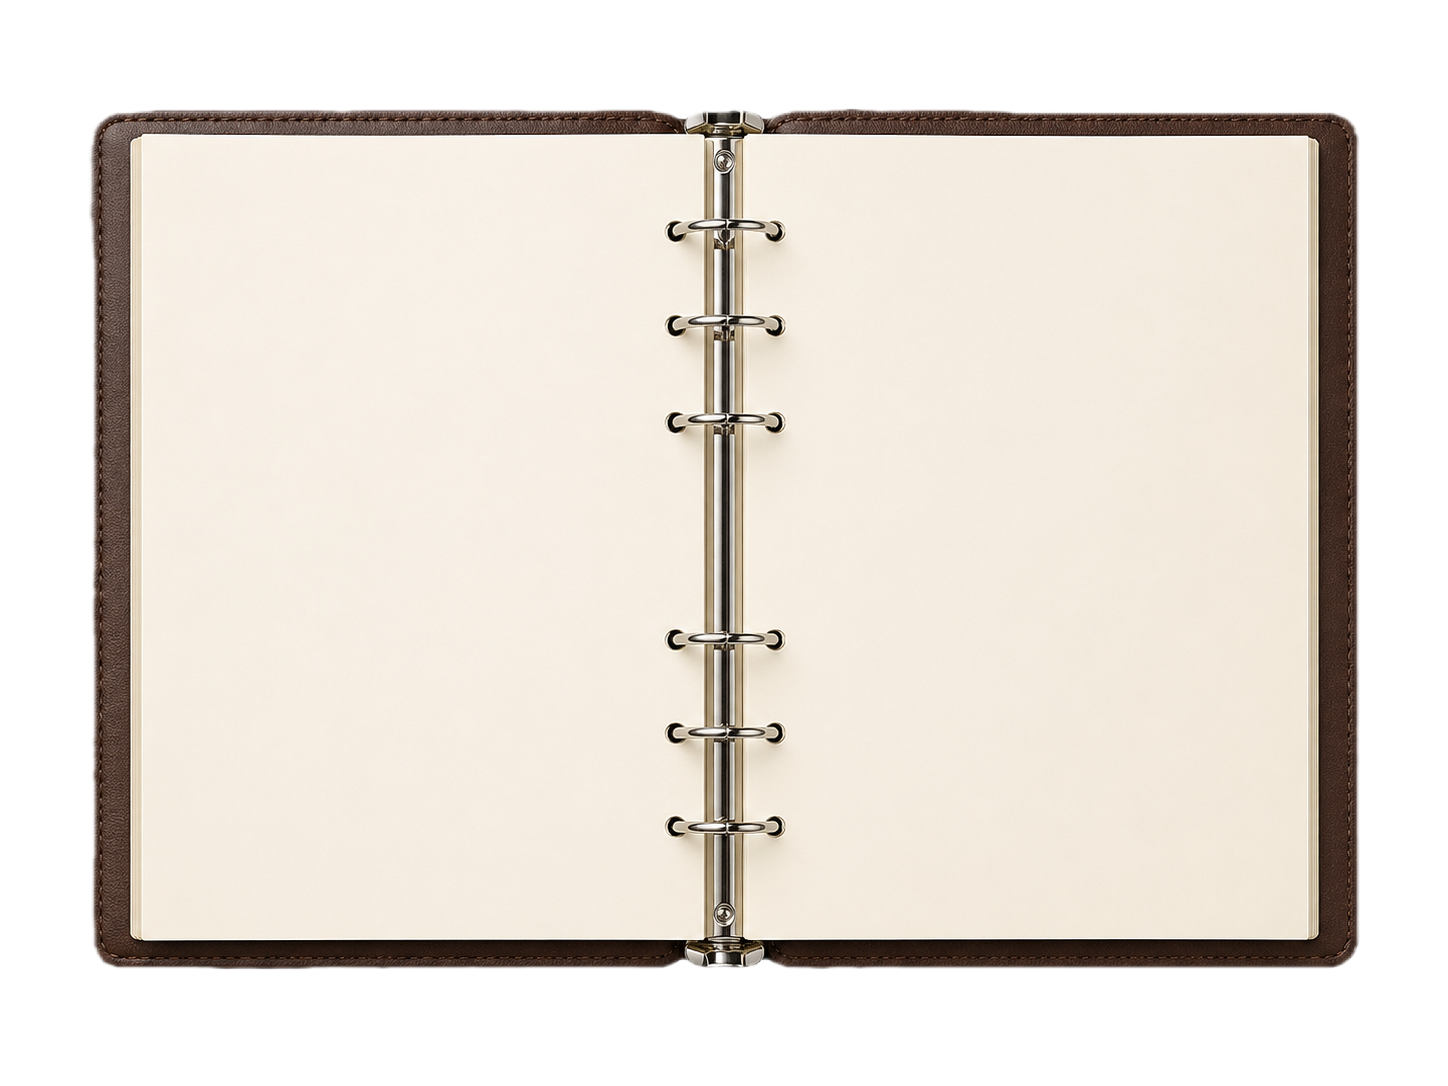
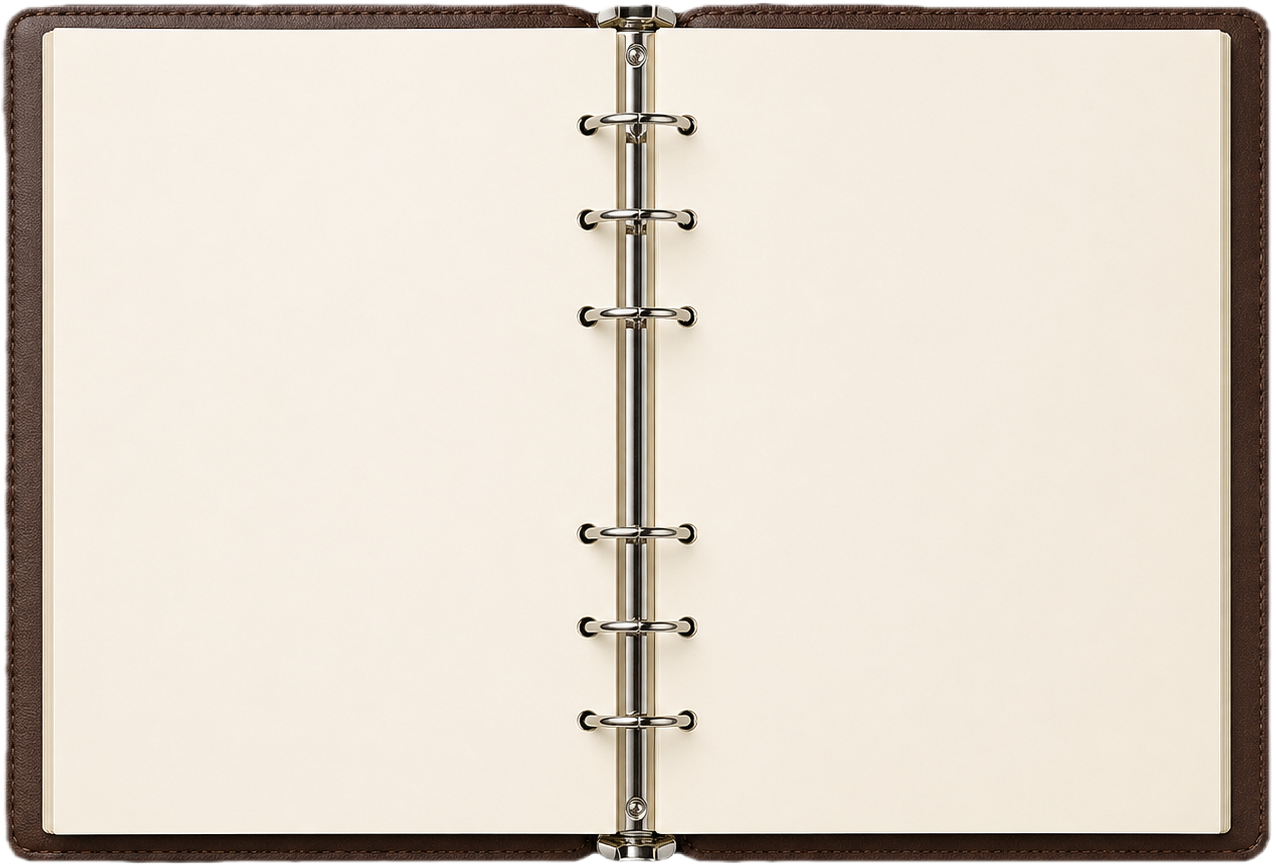
feat: image previews + responsive notebook & map

diff --git a/frontend/src/components/ui/AuthenticatedImage.vue b/frontend/src/components/ui/AuthenticatedImage.vue
@@ -1,5 +1,6 @@
 <script setup lang="ts">
-import { onBeforeUnmount, ref, watch } from 'vue'
+import { h, onBeforeUnmount, ref, render, watch } from 'vue'
+import BaseModal from '@/components/ui/BaseModal.vue'
 import { getBlobUrl } from '@/utils/apiUtils'
 
 defineOptions({
@@ -9,9 +10,11 @@ defineOptions({
 const props = defineProps<{
   src?: string | null
   alt: string
+  previewOnClick?: boolean
 }>()
 
 const objectUrl = ref('')
+let previewContainer: HTMLDivElement | null = null
 
 function revokeObjectUrl() {
   if (!objectUrl.value) {
@@ -22,9 +25,49 @@ function revokeObjectUrl() {
   objectUrl.value = ''
 }
 
+function closePreview() {
+  if (!previewContainer) {
+    return
+  }
+
+  render(null, previewContainer)
+  previewContainer.remove()
+  previewContainer = null
+}
+
+function openPreview() {
+  if (!props.previewOnClick || !objectUrl.value || previewContainer) {
+    return
+  }
+
+  previewContainer = document.createElement('div')
+  document.body.appendChild(previewContainer)
+
+  render(
+    h(
+      BaseModal,
+      {
+        panelClass: 'authenticated-image-modal',
+        onClose: closePreview,
+      },
+      {
+        default: () => [
+          h('img', {
+            src: objectUrl.value,
+            alt: props.alt,
+            class: 'authenticated-image-modal__image',
+          }),
+        ],
+      },
+    ),
+    previewContainer,
+  )
+}
+
 watch(
   () => props.src,
   async (src) => {
+    closePreview()
     revokeObjectUrl()
 
     if (!src) {
@@ -41,10 +84,45 @@ watch(
 )
 
 onBeforeUnmount(() => {
+  closePreview()
   revokeObjectUrl()
 })
 </script>
 
 <template>
-  <img v-if="objectUrl" :src="objectUrl" :alt="alt" v-bind="$attrs" />
+  <img
+    v-if="objectUrl"
+    :src="objectUrl"
+    :alt="alt"
+    :class="{ 'preview-enabled': previewOnClick }"
+    :role="previewOnClick ? 'button' : undefined"
+    :tabindex="previewOnClick ? 0 : undefined"
+    @click="openPreview"
+    @keydown.enter.prevent="openPreview"
+    @keydown.space.prevent="openPreview"
+  />
 </template>
+
+<style>
+.preview-enabled {
+  cursor: zoom-in;
+}
+
+.authenticated-image-modal {
+  width: min(92vw, 960px);
+  padding: 1rem;
+  background: transparent;
+  border: none;
+  outline: none;
+  box-shadow: none;
+}
+
+.authenticated-image-modal__image {
+  display: block;
+  width: 100%;
+  max-height: 80vh;
+  object-fit: contain;
+  border-radius: 1rem;
+  background: rgba(0, 0, 0, 0.15);
+}
+</style>

diff --git a/frontend/src/views/pupil/PupilsMapView.vue b/frontend/src/views/pupil/PupilsMapView.vue
@@ -123,7 +123,7 @@
 </template>
 
 <script setup lang="ts">
-import { computed, onActivated, onMounted, ref } from 'vue'
+import { onActivated, onMounted, ref } from 'vue'
 import { useRouter } from 'vue-router'
 import TopBar from '@/components/pupil/TopBar.vue'
 import { get } from '@/utils/apiUtils'
@@ -266,16 +266,8 @@ function isUnlocked(stop: Stop): boolean {
   return stop.unlocked
 }
 
-function openHelpPopup(): void {
-  showHelpPopup.value = true
-}
-
 function closeHelpPopup(): void {
   showHelpPopup.value = false
-}
-
-function openHintPopup(): void {
-  showHintPopup.value = true
 }
 
 function closeHintPopup(): void {
@@ -813,42 +805,58 @@ onMounted(() => {
   }
 
   .map-wrapper {
-    padding: 10px 36px 0;
+    padding: 10px 10px 0;
   }
 
   .map-area {
-    min-height: 980px;
-    --road-start-x: 12%;
-    --road-one-third-x: 37.333%;
-    --road-two-thirds-x: 62.667%;
-    --road-end-x: 88%;
+    min-height: 0;
+    display: flex;
+    flex-direction: column;
+    align-items: center;
+    gap: 1rem;
   }
 
-  .stop-node .path-point {
-    width: 28px;
-    height: 28px;
-  }
-
-  .stop-node .path-point {
-    top: 328px;
-  }
-
+  .path-point,
+  .connector,
   .path-line {
-    top: 328px;
+    display: none;
   }
 
-  .stop-node.top .connector {
-    top: calc(var(--path-y) - 60px);
-    height: 60px;
+  .stop-node,
+  .homeNode,
+  .endNode,
+  .stop-node.pos-1,
+  .stop-node.pos-2,
+  .stop-node.pos-3 {
+    position: relative;
+    left: auto !important;
+    right: auto !important;
+    width: 100%;
+    max-width: 22rem;
+    transform: none;
   }
 
-  .stop-node.bottom .connector {
-    top: calc(var(--path-y) + 6px);
-    height: 60px;
+  .stop-node .stop-content,
+  .homeNode .stop-content,
+  .endNode .stop-content,
+  .stop-node.pos-1 .stop-content,
+  .stop-node.bottom .stop-content {
+    position: relative;
+    top: auto;
+    left: auto;
+    width: 100%;
+    transform: none;
+    padding: 0;
   }
 
   .stop-node.bottom .stop-content {
-    top: 395px;
+    flex-direction: column;
+  }
+
+  .stop-title {
+    min-width: 0;
+    width: 100%;
+    max-width: 100%;
   }
 
   .star {

diff --git a/frontend/src/components/teacher/mystery/TeacherMysteryTaskCard.vue b/frontend/src/components/teacher/mystery/TeacherMysteryTaskCard.vue
@@ -57,6 +57,7 @@ const correctFileSlot = computed(() => {
           :src="`/api/objects/${imageTask.fileId}`"
           alt="Oppgavebilde"
           class="single-task-image"
+          preview-on-click
         />
 
         <div class="task-details">
@@ -93,6 +94,7 @@ const correctFileSlot = computed(() => {
           :src="`/api/objects/${newsTask.fileId_1}`"
           alt="Nyhetsoppgave fil 1"
           class="news-task-image"
+          preview-on-click
           />
           <div class="image-label-row">
             <span v-if="correctFileSlot === 'FILE_1'" class="answer-chip">Riktig</span>
@@ -105,6 +107,7 @@ const correctFileSlot = computed(() => {
           :src="`/api/objects/${newsTask.fileId_2}`"
           alt="Nyhetsoppgave fil 2"
           class="news-task-image"
+          preview-on-click
           />
           <div class="image-label-row">
             <span v-if="correctFileSlot === 'FILE_2'" class="answer-chip">Riktig</span>

diff --git a/frontend/src/views/pupil/PupilsMysteryView.vue b/frontend/src/views/pupil/PupilsMysteryView.vue
@@ -302,7 +302,7 @@ onBeforeUnmount(() => {
                   aria-label="Åpne bilde i stort format"
                   @click="openImagePreview(mystery)"
                 >
-                  <AuthenticatedImage :src="`/api/objects/${mystery.fileObjectId}`" alt="Innsendt mysterium" />
+                  <AuthenticatedImage :src="`/api/objects/${mystery.fileObjectId}`" alt="Innsendt mysterium" preview-on-click />
                 </button>
 
                 <div class="comment-box">
@@ -379,7 +379,7 @@ onBeforeUnmount(() => {
           ×
         </button>
 
-        <AuthenticatedImage :src="`/api/objects/${selectedImage.fileObjectId}`" alt="Forstørret innsendt mysterium" />
+        <AuthenticatedImage :src="`/api/objects/${selectedImage.fileObjectId}`" alt="Forstørret innsendt mysterium" preview-on-click />
       </div>
     </div>
   </div>

diff --git a/frontend/src/views/pupil/PupilsNotebookView.vue b/frontend/src/views/pupil/PupilsNotebookView.vue
@@ -300,7 +300,7 @@ onBeforeUnmount(() => {
 
 .book-content {
   position: absolute;
-  inset: 14% 14.5% 12% 14.5%;
+  inset: 4% 6% 4% 9%;
   display: grid;
   grid-template-columns: minmax(0, 1fr) minmax(0, 1fr);
   column-gap: 9%;
@@ -497,7 +497,6 @@ onBeforeUnmount(() => {
   }
 
   .book-content {
-    inset: 14.5% 14.5% 12.5% 14.5%;
     column-gap: 8.5%;
   }
 
@@ -513,12 +512,11 @@ onBeforeUnmount(() => {
   }
 
   .book-stage {
-    width: min(64rem, 195vw);
+    width: 100%;
     flex: 0 0 auto;
   }
 
   .book-content {
-    inset: 15.5% 14.5% 13% 14.5%;
     column-gap: 8%;
   }
 

diff --git a/frontend/src/components/pupil/task/PupilImageTask.vue b/frontend/src/components/pupil/task/PupilImageTask.vue
@@ -1,4 +1,5 @@
 <script setup lang="ts">
+import AuthenticatedImage from '@/components/ui/AuthenticatedImage.vue';
 import type { ImageCategory, ValidationResult } from '@/types/chapter'
 
 defineProps<{
@@ -58,7 +59,7 @@ function justificationClass(
         wrong: result && result.correct === false,
       }"
     >
-      <img v-if="imageUrl" :src="imageUrl" alt="Oppgavebilde" class="task-image" />
+      <AuthenticatedImage v-if="imageUrl" :src="imageUrl" alt="Oppgavebilde" class="task-image" />
       <div v-else class="image-placeholder">Laster bilde…</div>
     </div>
 

diff --git a/frontend/src/components/pupil/task/PupilNewsTask.vue b/frontend/src/components/pupil/task/PupilNewsTask.vue
@@ -1,4 +1,5 @@
 <script setup lang="ts">
+import AuthenticatedImage from '@/components/ui/AuthenticatedImage.vue';
 import type { ValidationResult } from '@/types/chapter'
 
 const props = defineProps<{
@@ -40,7 +41,7 @@ function cardClass(fileId: number): string {
         :class="cardClass(fileId)"
       >
         <div class="picture-placeholder">
-          <img
+          <AuthenticatedImage
             v-if="imageUrls[idx]"
             :src="imageUrls[idx]"
             :alt="`Bilde ${Number(idx) + 1}`"

diff --git a/frontend/src/components/teacher/mystery/Mystery.vue b/frontend/src/components/teacher/mystery/Mystery.vue
@@ -41,7 +41,12 @@ function formatTimestamp(value: string): string {
 
 <template>
   <article class="mystery-card">
-    <AuthenticatedImage :src="`/api/objects/${props.mystery.fileObjectId}`" alt="Ukens mysterium" class="mystery-image" />
+    <AuthenticatedImage 
+    :src="`/api/objects/${props.mystery.fileObjectId}`" 
+    alt="Ukens mysterium" 
+    class="mystery-image" 
+    preview-on-click
+    />
 
     <div class="mystery-content">
       <div class="mystery-top-row">

diff --git a/frontend/src/components/teacher/mystery/TeacherNyhetskvartaletTaskForm.vue b/frontend/src/components/teacher/mystery/TeacherNyhetskvartaletTaskForm.vue
@@ -204,6 +204,7 @@ function submitForm() {
             :src="`/api/objects/${parsedTask.fileId_1}`"
             alt="Fil 1"
             class="preview-image"
+            preview-on-click
           />
         </div>
 
@@ -220,6 +221,7 @@ function submitForm() {
             :src="`/api/objects/${parsedTask.fileId_2}`"
             alt="Fil 2"
             class="preview-image"
+            preview-on-click
           />
         </div>
       </div>

diff --git a/frontend/src/components/teacher/mystery/TeacherFotografenTaskForm.vue b/frontend/src/components/teacher/mystery/TeacherFotografenTaskForm.vue
@@ -289,6 +289,7 @@ function submitForm() {
           :src="`/api/objects/${parsedTask.fileId}`"
           :alt="task ? 'Eksisterende eller nytt oppgavebilde' : 'Valgt oppgavebilde'"
           class="preview-image"
+          preview-image
         />
       </div>
     </div>
